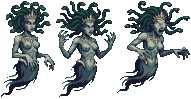
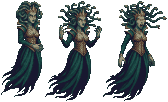
Regenerate Gorgon Queen fully clothed (emerald gown, scale bodice)

diff --git a/src/engine/constants.js b/src/engine/constants.js
@@ -9,7 +9,7 @@ export const DT = 1 / 60;        // fixed simulation step
 
 // Tile ids
 /** Bumped whenever assets/ change so browsers never pair a stale atlas with new code. */
-export const ASSET_VERSION = '20261031p';
+export const ASSET_VERSION = '20261031q';
 
 export const T_EMPTY = 0;
 export const T_GROUND = 1;       // graveyard earth (strip "ground")
